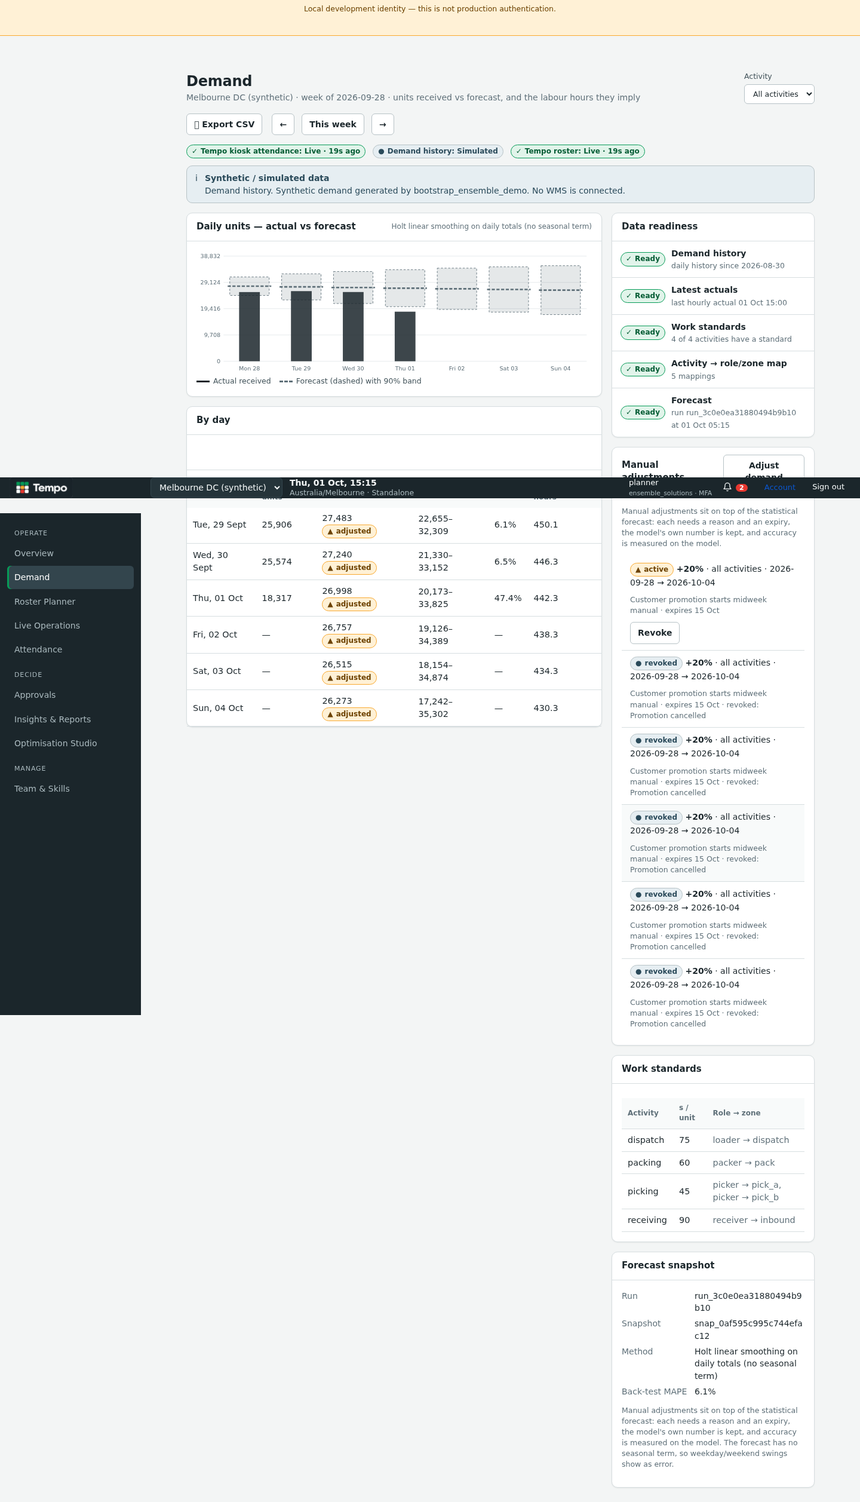
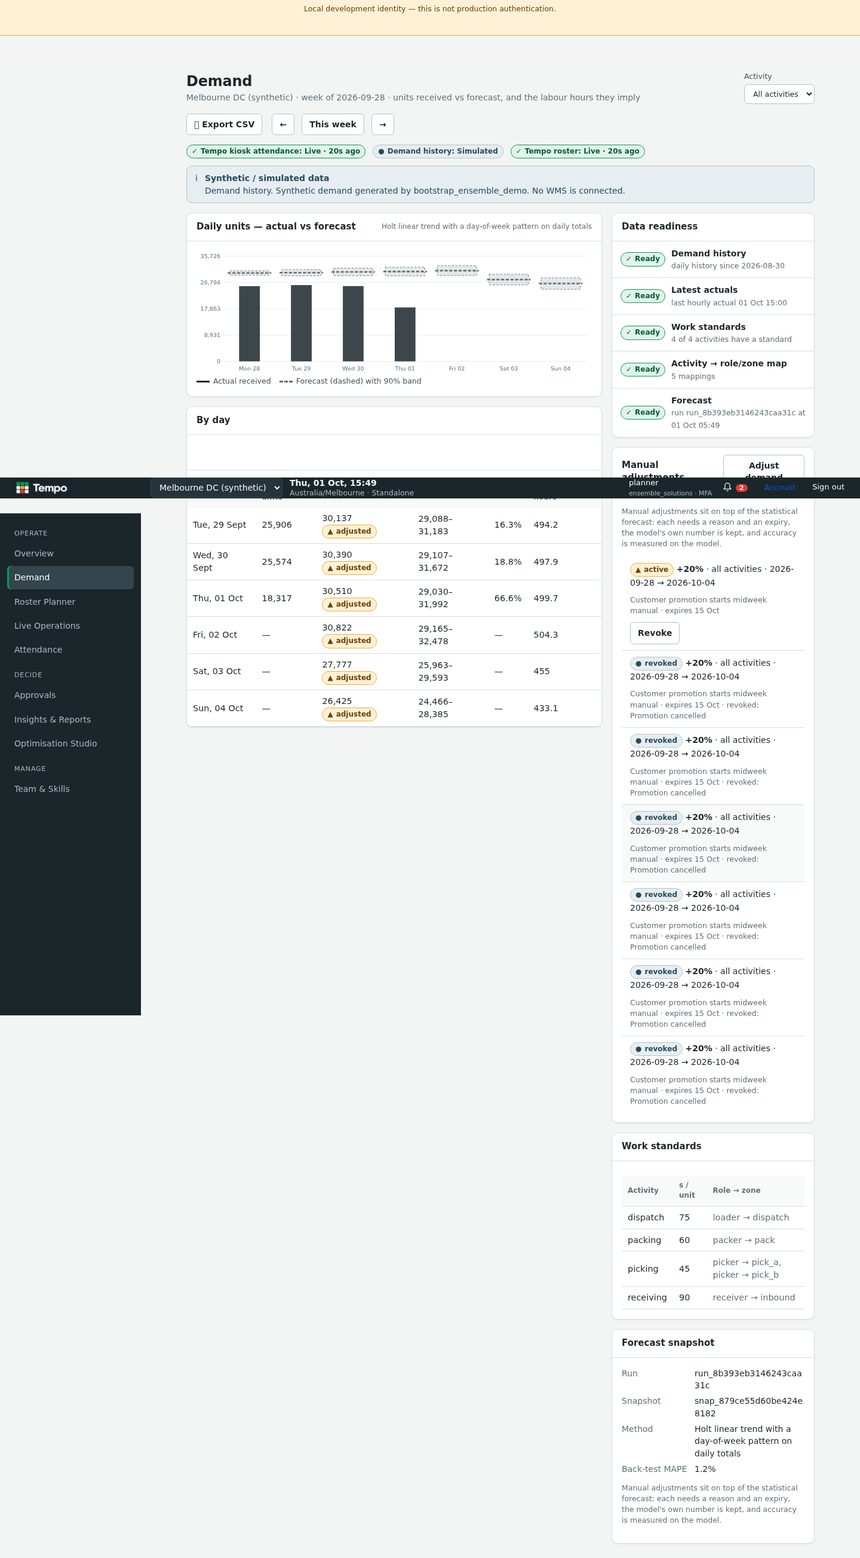
Demand overrides: second-person approval for large changes (UI + API)

Changed region(s): [[0.0, 0.031, 1.0, 0.9928], [0.0, 0.6516, 0.1875, 0.6826], [0.875, 0.031, 0.9062, 0.0621]]

diff --git a/services/tempo-console/src/components/DemandOverrides.tsx b/services/tempo-console/src/components/DemandOverrides.tsx
@@ -1,18 +1,19 @@
 import { useState } from 'react'
-import { createOverride, revokeOverride, type Demand, type DemandOverride } from '../api/ops'
+import { createOverride, decideOverride, revokeOverride, type Demand, type DemandOverride } from '../api/ops'
 import { fmtTime } from '../lib/format'
 import { zonedToUtcIso } from '../lib/zoned'
 import { Status } from './ui'
 
 const describe = (o: DemandOverride) => (o.mode === 'multiply' ? `${o.value >= 1 ? '+' : '−'}${Math.abs(Math.round((o.value - 1) * 100))}%` : `set to ${o.value.toLocaleString()} units/day`)
-const tone = { active: 'risk', expired: 'neutral', revoked: 'neutral' } as const
+const tone = { pending: 'risk', active: 'risk', expired: 'neutral', revoked: 'neutral', rejected: 'bad' } as const
 
 /** Manual adjustments sit on top of the forecast: reason and expiry are required, the model's number is kept, revoking keeps the history. */
-export function DemandOverrides({ site, tz, d, days, canPlan, onChanged }: { site: string; tz: string; d: Demand | null; days: string[]; canPlan: boolean; onChanged: () => void }) {
+export function DemandOverrides({ site, tz, d, days, canPlan, canApprove, me, onChanged }: { site: string; tz: string; d: Demand | null; days: string[]; canPlan: boolean; canApprove: boolean; me: string | undefined; onChanged: () => void }) {
   const [open, setOpen] = useState(false)
   const [busy, setBusy] = useState(false)
   const [err, setErr] = useState<string | null>(null)
   const [f, setF] = useState({ activity: '', start: days[0], end: days[days.length - 1], mode: 'multiply' as 'multiply' | 'set_units', value: '10', reason: '', expires: '' })
+  const [deciding, setDeciding] = useState<{ id: string; note: string } | null>(null)
   const [revoking, setRevoking] = useState<{ id: string; reason: string } | null>(null)
   const set = (k: keyof typeof f, v: string) => setF((p) => ({ ...p, [k]: v }))
   const list = d?.overrides ?? []
@@ -27,6 +28,10 @@ export function DemandOverrides({ site, tz, d, days, canPlan, onChanged }: { sit
       })
       setOpen(false); setF((p) => ({ ...p, reason: '' })); onChanged()
     } catch (e) { setErr((e as Error).message) } finally { setBusy(false) }
+  }
+  async function decide(id: string, approve: boolean, note: string) {
+    setBusy(true); setErr(null)
+    try { await decideOverride(id, approve, note); setDeciding(null); onChanged() } catch (e) { setErr((e as Error).message) } finally { setBusy(false) }
   }
   async function revoke() {
     if (!revoking) return
@@ -56,11 +61,15 @@ export function DemandOverrides({ site, tz, d, days, canPlan, onChanged }: { sit
           <ul className="tp-list" aria-label="Adjustments">{list.map((o) => (
             <li key={o.id} className="tp-item" style={{ gridTemplateColumns: '1fr', cursor: 'default' }}>
               <span><Status tone={tone[o.status]}>{o.status}</Status> <strong>{describe(o)}</strong> · {o.activity ?? 'all activities'} · {o.start_date} → {o.end_date}</span>
-              <span className="s">{o.reason}<br />{o.origin} · expires {fmtTime(o.expires_at, tz, { day: '2-digit', month: 'short' })}{o.revoke_reason ? ` · revoked: ${o.revoke_reason}` : ''}</span>
-              {canPlan && o.status === 'active' && (revoking?.id === o.id ? (
+              <span className="s">{o.status === 'pending' && 'Not applied yet — a different approver must agree first. '}{o.reason}<br />{o.origin} · expires {fmtTime(o.expires_at, tz, { day: '2-digit', month: 'short' })}{o.revoke_reason ? ` · revoked: ${o.revoke_reason}` : ''}{o.status === 'rejected' && o.decision_note ? ` · rejected: ${o.decision_note}` : ''}</span>
+              {canApprove && o.status === 'pending' && o.created_by !== me && (
+                <span className="tp-row"><input aria-label="Reason or note" className="tp-input" placeholder="Note (required to reject)" value={deciding?.id === o.id ? deciding.note : ''} onChange={(e) => setDeciding({ id: o.id, note: e.target.value })} />
+                  <button className="tp-btn primary" disabled={busy} onClick={() => void decide(o.id, true, deciding?.id === o.id ? deciding.note : '')}>Approve</button>
+                  <button className="tp-btn danger" disabled={busy || !(deciding?.id === o.id && deciding.note.trim().length >= 3)} onClick={() => void decide(o.id, false, deciding?.note ?? '')}>Reject</button></span>)}
+              {canPlan && (o.status === 'active' || o.status === 'pending') && (revoking?.id === o.id ? (
                 <span className="tp-row"><input aria-label="Reason for revoking" className="tp-input" placeholder="Reason" value={revoking.reason} onChange={(e) => setRevoking({ id: o.id, reason: e.target.value })} />
                   <button className="tp-btn" disabled={busy || revoking.reason.trim().length < 5} onClick={() => void revoke()}>Confirm revoke</button><button className="tp-btn" onClick={() => setRevoking(null)}>Keep</button></span>
-              ) : <span><button className="tp-btn" onClick={() => setRevoking({ id: o.id, reason: '' })}>Revoke</button></span>)}
+              ) : <span><button className="tp-btn" onClick={() => setRevoking({ id: o.id, reason: '' })}>{o.status === 'pending' ? 'Withdraw' : 'Revoke'}</button></span>)}
             </li>))}</ul>
         )}
       </div>

diff --git a/services/tempo-console/src/api/ops.ts b/services/tempo-console/src/api/ops.ts
@@ -101,7 +101,7 @@ export const getDemand = (site: string, start?: string) => apiRequest<Demand>(`/
 
 export const exportCsv = (site: string, kind: 'variance' | 'timesheets' | 'demand', start: string) => downloadFile(`/sites/${site}/exports/${kind}.csv?start=${start}`)
 
-export interface DemandOverride { id: string; site_id: string; activity: string | null; start_date: string; end_date: string; mode: 'multiply' | 'set_units'; value: number; reason: string; origin: string; status: 'active' | 'expired' | 'revoked'; expires_at: string; created_by: string; created_at: string; revoked_by: string | null; revoked_at: string | null; revoke_reason: string | null }
+export interface DemandOverride { id: string; site_id: string; activity: string | null; start_date: string; end_date: string; mode: 'multiply' | 'set_units'; value: number; reason: string; origin: string; status: 'pending' | 'active' | 'expired' | 'revoked' | 'rejected'; needs_approval?: boolean; decision_note?: string | null; expires_at: string; created_by: string; created_at: string; revoked_by: string | null; revoked_at: string | null; revoke_reason: string | null }
 export interface NewOverride { activity: string | null; start_date: string; end_date: string; mode: 'multiply' | 'set_units'; value: number; reason: string; expires_at: string }
 export const createOverride = (site: string, body: NewOverride) => apiRequest<DemandOverride>(`/sites/${site}/demand/overrides`, { method: 'POST', body })
 export const revokeOverride = (id: string, reason: string) => apiRequest<DemandOverride>(`/demand/overrides/${id}/revoke`, { method: 'POST', body: { reason } })
@@ -123,3 +123,4 @@ export const getAudit = (q: { action?: string; decision?: string; before?: strin
   const p = new URLSearchParams(); if (q.action) p.set('action', q.action); if (q.decision) p.set('decision', q.decision); if (q.before) p.set('before', q.before)
   return apiRequest<AuditPage>(`/admin/audit${p.size ? `?${p}` : ''}`)
 }
+export const decideOverride = (id: string, approve: boolean, note: string) => apiRequest<DemandOverride>(`/demand/overrides/${id}/${approve ? 'approve' : 'reject'}`, { method: 'POST', body: { note } })

diff --git a/services/tempo-console/e2e/demand-override.spec.ts b/services/tempo-console/e2e/demand-override.spec.ts
@@ -39,3 +39,30 @@ test('planner adjusts demand, sees it flagged, then revokes it; an analyst canno
   await expect(page.getByRole('heading', { name: 'Manual adjustments' })).toBeVisible()
   await expect(page.getByRole('button', { name: 'Adjust demand' })).toHaveCount(0)
 })
+
+test('a large adjustment waits for a different approver and only then reaches the forecast', async ({ page }) => {
+  await signIn(page, /Demo Planner/)
+  await page.goto('/demand')
+  await page.getByRole('button', { name: 'Adjust demand' }).click()
+  const form = page.getByRole('form', { name: 'New demand adjustment' })
+  await form.getByLabel('Percent (+/−)').fill('45')
+  await form.getByLabel(/Reason/).fill('Peak sale event confirmed by the customer')
+  const exp = new Date(); exp.setUTCDate(exp.getUTCDate() + 10)
+  await form.getByLabel('Expires').fill(exp.toISOString().slice(0, 10))
+  await form.getByRole('button', { name: /Save/ }).click()
+  const list = page.getByRole('list', { name: 'Adjustments' })
+  await expect(list).toContainText('pending')
+  await expect(list).toContainText('Not applied yet')
+  await expect(page.locator('td .tp-badge', { hasText: 'adjusted' })).toHaveCount(0)           // the plan has not moved
+  await expect(list.getByRole('button', { name: 'Approve' })).toHaveCount(0)                    // the proposer cannot approve
+
+  await signIn(page, /Demo Ops Manager/)
+  await page.goto('/demand')
+  await page.getByRole('list', { name: 'Adjustments' }).getByRole('button', { name: 'Approve' }).click()
+  await expect(page.getByRole('list', { name: 'Adjustments' })).toContainText('active')
+  await expect(page.locator('td .tp-badge', { hasText: 'adjusted' }).first()).toBeVisible()
+  await page.getByRole('list', { name: 'Adjustments' }).getByRole('button', { name: 'Revoke' }).click()
+  await page.getByLabel('Reason for revoking').fill('Test finished, restoring the model')
+  await page.getByRole('button', { name: 'Confirm revoke' }).click()
+  await expect(page.locator('td .tp-badge', { hasText: 'adjusted' })).toHaveCount(0)
+})

diff --git a/services/tempo-console/src/pages/Demand.tsx b/services/tempo-console/src/pages/Demand.tsx
@@ -12,7 +12,7 @@ const mondayOf = (date: string) => { const d = new Date(`${date}T00:00:00Z`); re
 
 export default function DemandPage() {
   const { site } = useSite()
-  const { can } = useTempoContext()
+  const { can, access } = useTempoContext()
   const tz = site?.timezone ?? 'UTC'
   const [start, setStart] = useState(() => mondayOf(localDate(new Date(), tz)))
   const [d, setD] = useState<Demand | null>(null)
@@ -74,7 +74,7 @@ export default function DemandPage() {
           <section className="tp-card"><header><h2>Data readiness</h2></header>
             <ul className="tp-list">{!d ? <li className="tp-body"><Skeleton h={100} /></li> : d.readiness.map((r) => (<li key={r.check} className="tp-item" style={{ gridTemplateColumns: 'auto 1fr', cursor: 'default' }}><Status tone={r.ok ? 'ok' : 'bad'}>{r.ok ? 'Ready' : 'Not ready'}</Status><span><span className="t">{r.check}</span><br /><span className="s">{r.detail}</span></span></li>))}</ul>
           </section>
-          <DemandOverrides site={site.site_id} tz={tz} d={d} days={days} canPlan={can('labour.plan')} onChanged={load} />
+          <DemandOverrides site={site.site_id} tz={tz} d={d} days={days} canPlan={can('labour.plan')} canApprove={can('labour.approve')} me={access?.user_id} onChanged={load} />
           <section className="tp-card"><header><h2>Work standards</h2></header>
             <div className="tp-body">{!d ? <Skeleton h={80} /> : <table className="tp-table tp-num"><thead><tr><th>Activity</th><th>s / unit</th><th>Role → zone</th></tr></thead><tbody>
               {d.standards.map((s) => (<tr key={s.activity}><td>{s.activity}</td><td>{s.seconds_per_unit}</td><td className="tp-muted">{d.zone_map.filter((m) => m.activity === s.activity).map((m) => `${m.role} → ${m.zone}`).join(', ') || '—'}</td></tr>))}

diff --git a/services/tempo-api/app/api/v1/demand.py b/services/tempo-api/app/api/v1/demand.py
@@ -73,16 +73,60 @@ def create_override(site_id: str, body: OverrideIn, ctx: RequestContext = Depend
     problem = overrides.validate(body.mode, body.value, body.start_date, body.end_date, body.reason, body.expires_at, now)
     if problem:
         raise ScopeError(problem)
-    for o in overrides.active_for(db, ctx.tenant_id, site.site_id, now):
+    live = list(overrides.active_for(db, ctx.tenant_id, site.site_id, now)) + list(db.scalars(select(DemandOverride).where(
+        DemandOverride.tenant_id == ctx.tenant_id, DemandOverride.site_id == site.site_id, DemandOverride.state == "pending")))
+    for o in live:
         if o.activity == body.activity and not (o.end_date < body.start_date or o.start_date > body.end_date):
             raise PolicyConflict("an active override already covers some of these dates for this activity — revoke it first so adjustments never stack silently")
     o = DemandOverride(tenant_id=ctx.tenant_id, site_id=site.site_id, activity=body.activity, start_date=body.start_date, end_date=body.end_date, mode=body.mode,
                        value=body.value, reason=body.reason.strip(), expires_at=body.expires_at, created_by=ctx.user_id)
+    pending = overrides.needs_approval(body.mode, body.value)
+    o.state = "pending" if pending else "active"
     db.add(o)
     db.flush()
-    auth.audit(db, actor_type="user", actor_id=ctx.user_id, tenant_id=ctx.tenant_id, action="demand.override_create", decision="allowed", session_ref=o.id, correlation_id=ctx.correlation_id)
+    auth.audit(db, actor_type="user", actor_id=ctx.user_id, tenant_id=ctx.tenant_id, action="demand.override_create", decision="allowed", reason_code="pending_approval" if pending else None, session_ref=o.id, correlation_id=ctx.correlation_id)
+    if pending:  # nothing changes in the plan until a different person agrees
+        from app.core import notifications as nt
+        nt.notify(db, ctx.tenant_id, nt.recipients(db, ctx.tenant_id, site.site_id, "labour.approve", {ctx.user_id}), kind="override.pending", severity="action",
+                  title="Demand adjustment awaiting approval", body=body.reason[:200], link="/demand", site_id=site.site_id, dedup_key=f"override:{o.id}:pending")
+        return {**overrides.serialise(o, now), "forecast_run_id": None}
     run_id = _rerun_forecast(db, ctx, site, body.start_date, body.end_date)
     return {**overrides.serialise(o, now), "forecast_run_id": run_id}
+
+
+class Decide(BaseModel):
+    note: str = Field(default="", max_length=500)
+
+
+def _decide(state: str):
+    def h(override_id: str, body: Decide, ctx: RequestContext = Depends(get_request_context), db: Session = Depends(get_db)) -> dict:
+        if not ctx.has_permission("labour.approve"):
+            raise AuthForbidden("caller lacks labour.approve")
+        o = db.get(DemandOverride, override_id)
+        if o is None or o.tenant_id != ctx.tenant_id or o.site_id not in ctx.site_ids:
+            raise RunNotFound("override not found or not visible in caller scope")
+        if o.state != "pending":
+            raise PolicyConflict(f"override is already {o.state}")
+        if o.created_by == ctx.user_id:
+            raise AuthForbidden("the person who proposed an adjustment cannot approve it (segregation of duties)")
+        now = datetime.now(timezone.utc)
+        if state == "active" and overrides.status_of(o, now) == "expired":
+            raise PolicyConflict("this adjustment has already expired")
+        if state == "rejected" and len(body.note.strip()) < 3:
+            raise ScopeError("a reason is required to reject an adjustment")
+        o.state, o.decided_by, o.decided_at, o.decision_note = state, ctx.user_id, now, body.note
+        auth.audit(db, actor_type="user", actor_id=ctx.user_id, tenant_id=ctx.tenant_id, action=f"demand.override_{'approve' if state == 'active' else 'reject'}", decision="allowed", session_ref=o.id, correlation_id=ctx.correlation_id)
+        from app.core import notifications as nt
+        nt.notify(db, ctx.tenant_id, [o.created_by], kind=f"override.{state}", severity="info", title=f"Demand adjustment {'approved' if state == 'active' else 'rejected'}", body=body.note[:200],
+                  link="/demand", site_id=o.site_id, dedup_key=f"override:{o.id}:{state}")
+        db.flush()
+        run_id = _rerun_forecast(db, ctx, _site(db, ctx, o.site_id), o.start_date, o.end_date) if state == "active" else None
+        return {**overrides.serialise(o, now), "forecast_run_id": run_id}
+    return h
+
+
+router.post("/demand/overrides/{override_id}/approve")(_decide("active"))
+router.post("/demand/overrides/{override_id}/reject")(_decide("rejected"))
 
 
 @router.post("/demand/overrides/{override_id}/revoke")
@@ -92,12 +136,13 @@ def revoke_override(override_id: str, body: Revoke, ctx: RequestContext = Depend
     o = db.get(DemandOverride, override_id)
     if o is None or o.tenant_id != ctx.tenant_id or o.site_id not in ctx.site_ids:
         raise RunNotFound("override not found or not visible in caller scope")
-    if o.state != "active":
+    if o.state not in ("active", "pending"):
         raise PolicyConflict(f"override is already {o.state}")
+    was_live = o.state == "active"
     now = datetime.now(timezone.utc)
     o.state, o.revoked_by, o.revoked_at, o.revoke_reason = "revoked", ctx.user_id, now, body.reason
     auth.audit(db, actor_type="user", actor_id=ctx.user_id, tenant_id=ctx.tenant_id, action="demand.override_revoke", decision="allowed", session_ref=o.id, correlation_id=ctx.correlation_id)
     db.flush()
     site = _site(db, ctx, o.site_id)
-    run_id = _rerun_forecast(db, ctx, site, o.start_date, o.end_date)
+    run_id = _rerun_forecast(db, ctx, site, o.start_date, o.end_date) if was_live else None   # a proposal never reached the plan
     return {**overrides.serialise(o, now), "forecast_run_id": run_id}

diff --git a/services/tempo-api/tests/test_demand_overrides.py b/services/tempo-api/tests/test_demand_overrides.py
@@ -90,3 +90,39 @@ def test_permissions_and_tenant_isolation(client):
     other = context_header(roles=["planner"], user_id="usr_o", tenant_id="ten_other")
     assert c.get(f"/v1/sites/{SITE}/demand/overrides", headers=other).status_code == 404
     assert c.post(f"/v1/demand/overrides/{oid}/revoke", json={"reason": "cross tenant attempt"}, headers=other).status_code == 404
+
+
+def test_large_adjustments_need_a_second_person_before_they_touch_the_plan(client):
+    _seed(client)
+    c = client
+    base = c.get(f"/v1/sites/{SITE}/demand?start={WEEK}", headers=planner()).json()
+    big = {**OK, "value": 1.6}
+    r = c.post(f"/v1/sites/{SITE}/demand/overrides", json=big, headers=planner())
+    assert r.status_code == 201 and r.json()["status"] == "pending" and r.json()["needs_approval"] and r.json()["forecast_run_id"] is None
+    oid = r.json()["id"]
+    after = c.get(f"/v1/sites/{SITE}/demand?start={WEEK}", headers=planner()).json()
+    assert not any(x["adjusted"] for x in after["rows"]) and [x["forecast_units"] for x in after["rows"]] == [x["forecast_units"] for x in base["rows"]]   # nothing moved
+    assert c.post(f"/v1/sites/{SITE}/demand/overrides", json=big, headers=planner()).status_code == 422                       # a pending proposal blocks stacking too
+    # the proposer cannot approve; a role without labour.approve cannot either
+    assert c.post(f"/v1/demand/overrides/{oid}/approve", json={}, headers=planner()).status_code == 403
+    # a different approver: rejection needs a reason, approval makes it live and re-runs the forecast
+    assert c.post(f"/v1/demand/overrides/{oid}/reject", json={"note": "x"}, headers=manager()).status_code == 400
+    ok = c.post(f"/v1/demand/overrides/{oid}/approve", json={"note": "agreed"}, headers=manager())
+    assert ok.status_code == 200 and ok.json()["status"] == "active" and ok.json()["forecast_run_id"]
+    d = c.get(f"/v1/sites/{SITE}/demand?start={WEEK}", headers=planner()).json()
+    assert any(x["adjusted"] for x in d["rows"])
+    assert c.post(f"/v1/demand/overrides/{oid}/approve", json={}, headers=manager()).status_code == 422                       # already decided
+    # a proposer who is also an approver still cannot approve their own proposal
+    both = context_header(roles=["planner", "operations_manager"], user_id="usr_both")
+    mine = c.post(f"/v1/sites/{SITE}/demand/overrides", json={**big, "start_date": "2026-09-14", "end_date": "2026-09-15"}, headers=both).json()
+    assert mine["status"] == "pending"
+    assert c.post(f"/v1/demand/overrides/{mine['id']}/approve", json={}, headers=both).status_code == 403
+    assert c.post(f"/v1/demand/overrides/{mine['id']}/approve", json={}, headers=manager()).status_code == 200
+    # a rejected proposal never applies
+    assert c.post(f"/v1/demand/overrides/{oid}/revoke", json={"reason": "reset for next check"}, headers=planner()).status_code == 200
+    p2 = c.post(f"/v1/sites/{SITE}/demand/overrides", json={**big, "mode": "set_units", "value": 5000}, headers=planner()).json()
+    assert p2["status"] == "pending"                                                                                       # fixed-units always needs a second person
+    rj = c.post(f"/v1/demand/overrides/{p2['id']}/reject", json={"note": "not supported by the customer forecast"}, headers=manager()).json()
+    assert rj["status"] == "rejected" and rj["decision_note"].startswith("not supported")
+    rows = c.get(f"/v1/sites/{SITE}/demand?start={WEEK}", headers=planner()).json()["rows"]
+    assert not any(x["adjusted"] for x in rows if x["date"] <= "2026-09-10")                                              # the rejected range stays on the model

diff --git a/services/tempo-api/app/core/overrides.py b/services/tempo-api/app/core/overrides.py
@@ -21,6 +21,7 @@ MULTIPLY_MIN, MULTIPLY_MAX = 0.2, 3.0
 MAX_DAYS = 14
 MAX_EXPIRY_DAYS = 90
 MIN_REASON = 10
+APPROVAL_ABOVE = 0.25  # a percentage change beyond ±25 % (or any fixed-units override) needs a second person before it affects the plan
 
 
 def _aware(d: datetime) -> datetime:
@@ -48,6 +49,10 @@ def validate(mode: str, value: float, start: str, end: str, reason: str, expires
     return None
 
 
+def needs_approval(mode: str, value: float) -> bool:
+    return mode == "set_units" or abs(value - 1.0) > APPROVAL_ABOVE
+
+
 def active_for(db: Session, tenant_id: str, site_id: str, now: datetime) -> list[DemandOverride]:
     return [o for o in db.scalars(select(DemandOverride).where(DemandOverride.tenant_id == tenant_id, DemandOverride.site_id == site_id,
                                                                  DemandOverride.state == "active").order_by(DemandOverride.created_at))
@@ -55,13 +60,16 @@ def active_for(db: Session, tenant_id: str, site_id: str, now: datetime) -> list
 
 
 def status_of(o: DemandOverride, now: datetime) -> str:
-    return "revoked" if o.state == "revoked" else ("expired" if _aware(o.expires_at) <= now else "active")
+    if o.state in ("revoked", "rejected", "pending"):
+        return o.state
+    return "expired" if _aware(o.expires_at) <= now else "active"
 
 
 def serialise(o: DemandOverride, now: datetime) -> dict:
     return {"id": o.id, "site_id": o.site_id, "activity": o.activity, "start_date": o.start_date, "end_date": o.end_date, "mode": o.mode, "value": o.value,
             "reason": o.reason, "origin": o.origin, "status": status_of(o, now), "expires_at": o.expires_at, "created_by": o.created_by, "created_at": o.created_at,
-            "revoked_by": o.revoked_by, "revoked_at": o.revoked_at, "revoke_reason": o.revoke_reason}
+            "revoked_by": o.revoked_by, "revoked_at": o.revoked_at, "revoke_reason": o.revoke_reason,
+            "needs_approval": o.state == "pending", "decided_by": o.decided_by, "decided_at": o.decided_at, "decision_note": o.decision_note}
 
 
 def apply(rows: list[dict], overrides: list[DemandOverride], tz: ZoneInfo) -> tuple[list[dict], list[str]]:

diff --git a/services/tempo-api/app/models/rosters.py b/services/tempo-api/app/models/rosters.py
@@ -105,7 +105,10 @@ class DemandOverride(Base):
     value: Mapped[float] = mapped_column()
     reason: Mapped[str] = mapped_column(String)
     origin: Mapped[str] = mapped_column(String, default="manual")
-    state: Mapped[str] = mapped_column(String, default="active")  # active | revoked
+    state: Mapped[str] = mapped_column(String, default="active")  # pending | active | rejected | revoked
+    decided_by: Mapped[str | None] = mapped_column(String, nullable=True)
+    decided_at: Mapped[datetime | None] = mapped_column(DateTime(timezone=True), nullable=True)
+    decision_note: Mapped[str | None] = mapped_column(String, nullable=True)
     expires_at: Mapped[datetime] = mapped_column(DateTime(timezone=True))
     created_by: Mapped[str] = mapped_column(String)
     created_at: Mapped[datetime] = mapped_column(DateTime(timezone=True), default=_now)

diff --git a/services/tempo-api/alembic/versions/d0e1f2a3b4c5_override_approval.py b/services/tempo-api/alembic/versions/d0e1f2a3b4c5_override_approval.py
@@ -1,0 +1,25 @@
+"""Demand override approval (second person for large changes): decision columns.
+
+Revision ID: d0e1f2a3b4c5
+Revises: c9d0e1f2a3b4
+"""
+from typing import Sequence, Union
+
+import sqlalchemy as sa
+from alembic import op
+
+revision: str = "d0e1f2a3b4c5"
+down_revision: Union[str, Sequence[str], None] = "c9d0e1f2a3b4"
+branch_labels = None
+depends_on = None
+
+
+def upgrade() -> None:
+    op.add_column("demand_override", sa.Column("decided_by", sa.String(), nullable=True))
+    op.add_column("demand_override", sa.Column("decided_at", sa.DateTime(timezone=True), nullable=True))
+    op.add_column("demand_override", sa.Column("decision_note", sa.String(), nullable=True))
+
+
+def downgrade() -> None:
+    for c in ("decision_note", "decided_at", "decided_by"):
+        op.drop_column("demand_override", c)
